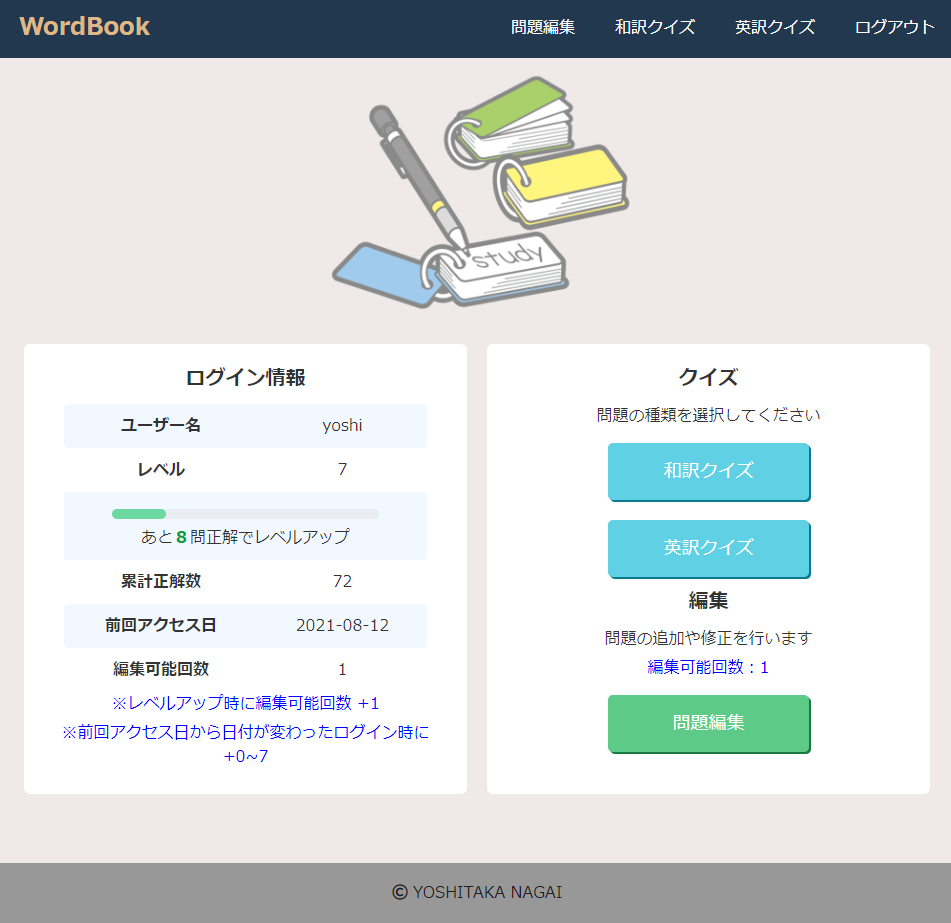
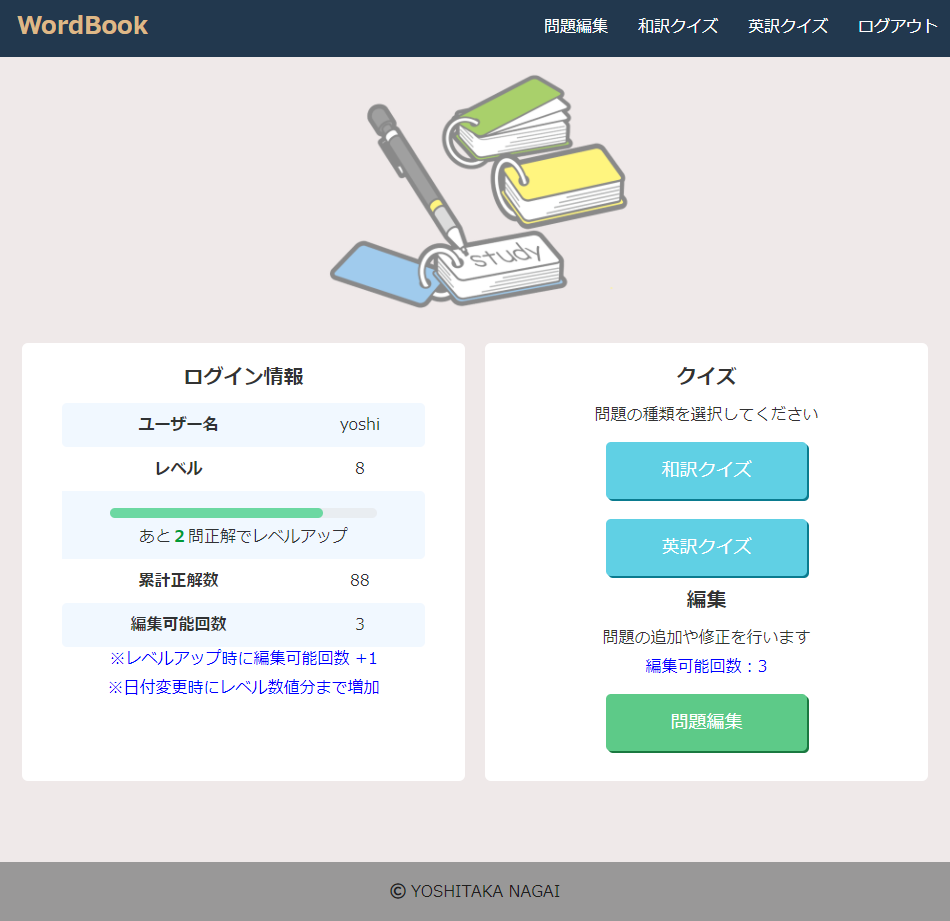
readme更新。色々修正。

diff --git a/scss/style.scss b/scss/style.scss
@@ -113,7 +113,7 @@ header {
   margin: 0 0 0 auto;
   a {
     line-height: 60px;
-    padding: 0 20px;
+    padding: 0 15px;
     color: white;
     display: block;
   }
@@ -153,6 +153,7 @@ header {
 
     i {
       margin-right: 5px;
+      color: white;
     }
   }
 }

diff --git a/css/style.css b/css/style.css
@@ -132,7 +132,7 @@ header {
 
 #pc-nav a {
   line-height: 60px;
-  padding: 0 20px;
+  padding: 0 15px;
   color: white;
   display: block;
 }
@@ -185,6 +185,7 @@ header {
 
 #sp-nav li i {
   margin-right: 5px;
+  color: white;
 }
 
 #hamburger {

diff --git a/dataRegist.php b/dataRegist.php
@@ -55,37 +55,62 @@ if (!empty($inputErrors)) {
     );
 
     if ($registType === REGIST_TYPE_CREATE) {
-      // 登録処理
-      $stmt = $pdo->prepare("insert into words (type, question, answer, editor) values (:type, :question, :answer, :editor)");
+      // 内容重複チェック
+      $stmt = $pdo->prepare("select count(*) from words where type = :type and question = :question and answer = :answer");
       $stmt->bindValue(":type", $inputType);
       $stmt->bindValue(":question", $inputQuestion);
       $stmt->bindValue(":answer", $inputAnswer);
-      $stmt->bindValue(":editor", $_SESSION["user"]["name"]);
       $stmt->execute();
-      $resultMessage = $registType . "処理が完了しました。";
-      // 編集可能回数を減らす
-      minusRegistCount($pdo);
-    } elseif ($registType === REGIST_TYPE_UPDATE) {
-      // 更新処理
-      $stmt = $pdo->prepare("update words set type = :type, question = :question, answer = :answer, editor = :editor where id = :id");
-      $stmt->bindValue(":type", $inputType);
-      $stmt->bindValue(":question", $inputQuestion);
-      $stmt->bindValue(":answer", $inputAnswer);
-      $stmt->bindValue(":editor", $_SESSION["user"]["name"]);
-      $stmt->bindValue(":id", (int)$inputId, PDO::PARAM_INT);
-      $stmt->execute();
-      $count = $stmt->rowCount();
-      if ($count <= 0) {
-        $resultMessage = "更新対象データが存在しません。";
+      $rowCount = $stmt->fetchColumn();
+      if ($rowCount > 0) {
+        $resultMessage = "同じ内容のデータが既に登録されている為、".$registType."処理は行われませんでした。";
       } else {
+        // 登録処理
+        $stmt = $pdo->prepare("insert into words (type, question, answer, editor) values (:type, :question, :answer, :editor)");
+        $stmt->bindValue(":type", $inputType);
+        $stmt->bindValue(":question", $inputQuestion);
+        $stmt->bindValue(":answer", $inputAnswer);
+        $stmt->bindValue(":editor", $_SESSION["user"]["name"]);
+        $stmt->execute();
         $resultMessage = $registType . "処理が完了しました。";
         // 編集可能回数を減らす
         minusRegistCount($pdo);
       }
+    } elseif ($registType === REGIST_TYPE_UPDATE) {
+      // 内容重複チェック
+      $stmt = $pdo->prepare("select count(*) from words where type = :type and question = :question and answer = :answer");
+      $stmt->bindValue(":type", $inputType);
+      $stmt->bindValue(":question", $inputQuestion);
+      $stmt->bindValue(":answer", $inputAnswer);
+      $stmt->execute();
+      $rowCount = $stmt->fetchColumn();
+      if ($rowCount > 0) {
+        $resultMessage = "同じ内容のデータが既に登録されている為、".$registType."処理は行われませんでした。";
+      } else {
+        // 更新処理
+        $stmt = $pdo->prepare("update words set type = :type, question = :question, answer = :answer, editor = :editor where id = :id");
+        $stmt->bindValue(":type", $inputType);
+        $stmt->bindValue(":question", $inputQuestion);
+        $stmt->bindValue(":answer", $inputAnswer);
+        $stmt->bindValue(":editor", $_SESSION["user"]["name"]);
+        $stmt->bindValue(":id", (int)$inputId, PDO::PARAM_INT);
+        $stmt->execute();
+        $count = $stmt->rowCount();
+        if ($count <= 0) {
+          $resultMessage = "更新対象データが存在しません。";
+        } else {
+          $resultMessage = $registType . "処理が完了しました。";
+          // 編集可能回数を減らす
+          minusRegistCount($pdo);
+        }
+      }
     } elseif ($registType === REGIST_TYPE_DELETE) {
       // 削除処理
-      $stmt = $pdo->prepare("delete from words where id = :id");
+      $stmt = $pdo->prepare("delete from words where id = :id and type = :type and question = :question and answer = :answer");
       $stmt->bindValue(":id", (int)$inputId, pdo::PARAM_INT);
+      $stmt->bindValue(":type", $inputType);
+      $stmt->bindValue(":question", $inputQuestion);
+      $stmt->bindValue(":answer", $inputAnswer);
       $stmt->execute();
       $count = $stmt->rowCount();
       if ($count <= 0) {

diff --git a/createUser.php b/createUser.php
@@ -24,6 +24,8 @@ $errors = [];
 if ($createUser === CREATE_USER) {
   if (empty($inputUserName)) {
     $errors[] = "ユーザー名を入力してください。";
+  } elseif (mb_strlen($inputUserName) > 10) {
+    $errors[] = "ユーザー名は10文字以内で入力してください。";
   } elseif (empty($inputPassword)) {
     $errors[] = "パスワードを入力してください。";
   } elseif (!preg_match("/^[a-zA-Z0-9]{4,}$/", $inputPassword)) {
@@ -92,8 +94,8 @@ if ($createUser === CREATE_USER) {
               <p class="message color-red"><?= $error ?></p>
             <?php endforeach ?>
           <?php endif ?>
-          <input type="text" name="inputUserName" id="inputUserName" placeholder="ユーザ名" autocomplete="off" value="<?= h($inputUserName) ?>">
-          <input type="password" name="inputPassword" id="inputPassword" maxlength="8" placeholder="パスワード(半角英数字4文字以上)" autocomplete="off">
+          <input type="text" name="inputUserName" id="inputUserName" placeholder="ユーザ名" autocomplete="off" value="<?= h($inputUserName) ?>" maxlength="10">
+          <input type="password" name="inputPassword" id="inputPassword" placeholder="パスワード(半角英数字4文字以上)" autocomplete="off">
           <input class="btn btn-green btn-normal" type="submit" value="登録">
           <p class="message"><a class="link" href="login.php">既に登録済みの方はこちらからログイン</a></p>
           <input type="hidden" name="createUser" value="<?= CREATE_USER ?>">

diff --git a/edit.php b/edit.php
@@ -146,7 +146,7 @@ $btnColor = ["" => "", REGIST_TYPE_CREATE => "btn-blue", REGIST_TYPE_UPDATE => "
             <table class="input-form">
               <tr>
                 <th>ID</th>
-                <td><input type="text" class="form-text" name="inputId" id="inputId" value="<?= h($inputId) ?>" autocomplete="off"></td>
+                <td><input type="text" class="form-text" name="inputId" id="inputId" value="<?= h($inputId) ?>" autocomplete="off" maxlength="4"></td>
               </tr>
               <tr>
                 <th>種類</th>
@@ -159,11 +159,11 @@ $btnColor = ["" => "", REGIST_TYPE_CREATE => "btn-blue", REGIST_TYPE_UPDATE => "
               </tr>
               <tr>
                 <th>問題</th>
-                <td><input type="text" class="form-text" name="inputQuestion" id="inputQuestion" value="<?= h($inputQuestion) ?>" autocomplete="off"></td>
+                <td><input type="text" class="form-text" name="inputQuestion" id="inputQuestion" value="<?= h($inputQuestion) ?>" autocomplete="off" maxlength="15"></td>
               </tr>
               <tr>
                 <th>答え</th>
-                <td><input type="text" class="form-text" name="inputAnswer" id="inputAnswer" value="<?= h($inputAnswer) ?>" autocomplete="off"></td>
+                <td><input type="text" class="form-text" name="inputAnswer" id="inputAnswer" value="<?= h($inputAnswer) ?>" autocomplete="off" maxlength="15"></td>
               </tr>
             </table>
             <?php if ($_SESSION["user"]["registCount"] <= 0) : ?>

diff --git a/validation.php b/validation.php
@@ -19,8 +19,13 @@ function validation($data, $registType)
   $errors = [];
 
   // IDは更新 or 削除処理時には必須
-  if (($registType === REGIST_TYPE_UPDATE || $registType === REGIST_TYPE_DELETE) && empty($data["inputId"])) {
-    $errors[] = "IDを入力してください";
+  if ($registType === REGIST_TYPE_UPDATE || $registType === REGIST_TYPE_DELETE) {
+    if(empty($data["inputId"])){
+      $errors[] = "IDを入力してください";
+    }
+    if(!preg_match("/^[0-9]+$/",$data["inputId"])){
+      $errors[] = "IDは数値を入力してください";
+    }
   }
 
   // 種類は必須
@@ -39,6 +44,9 @@ function validation($data, $registType)
   if (empty($data["inputQuestion"])) {
     $errors[] = "問題を入力してください";
   } else {
+    if(mb_strlen($data["inputQuestion"]) > 15){
+      $errors[] = "問題は15文字以内で入力してください";
+    }
     if ($data["inputType"] === "和訳" && !preg_match("/^[a-zA-Z]+$/", $data["inputQuestion"])) {
       $errors[] = "問題は英語で入力してください";
     }
@@ -53,6 +61,9 @@ function validation($data, $registType)
   if (empty($data["inputAnswer"])) {
     $errors[] = "答えを入力してください";
   } else {
+    if(mb_strlen($data["inputAnswer"]) > 15){
+      $errors[] = "答えは15文字以内で入力してください";
+    }
     if ($data["inputType"] === "英訳" && !preg_match("/^[a-zA-Z]+$/", $data["inputAnswer"])) {
       $errors[] = "答えは英語で入力してください";
     }

diff --git a/login.php b/login.php
@@ -44,7 +44,7 @@ if ($loginUser === LOGIN_USER) {
       $row = $stmt->fetch();
 
       // DBのデータと入力されたユーザー名、パスワードが一致の場合
-      if (password_verify($inputPassword, $row["password"])) {
+      if (!empty($row) && password_verify($inputPassword, $row["password"])) {
         // セッションへデータ保存
         $_SESSION["user"]["name"] = $inputUserName;
         $_SESSION["user"]["answerCount"] = $row["answer_count"];
@@ -90,7 +90,7 @@ if ($loginUser === LOGIN_USER) {
               <p class="message color-red"><?= $error ?></p>
             <?php endforeach ?>
           <?php endif ?>
-          <input type="text" name="inputUserName" id="inputUserName" placeholder="ユーザ名" autocomplete="off">
+          <input type="text" name="inputUserName" id="inputUserName" placeholder="ユーザ名" autocomplete="off" value="<?= h($inputUserName) ?>">
           <input type="password" name="inputPassword" id="inputPassword" maxlength="8" placeholder="パスワード" autocomplete="off">
           <input class="btn btn-green btn-normal" type="submit" value="ログイン">
           <p class="message"><a class="link" href="createUser.php">新規ユーザー登録はこちらから</a></p>

diff --git a/index.php b/index.php
@@ -47,16 +47,12 @@ if (isset($_SESSION["user"])) {
               <td><?= h($_SESSION["user"]["answerCount"]) ?></td>
             </tr>
             <tr>
-              <th>前回アクセス日</th>
-              <td><?= h($_SESSION["user"]["lastAccessDate"]) ?></td>
-            </tr>
-            <tr>
               <th>編集可能回数</th>
               <td><?= h($_SESSION["user"]["registCount"]) ?></td>
             </tr>
           </table>
           <p class="message color-blue">※レベルアップ時に編集可能回数 +1</p>
-          <p class="message color-blue">※前回アクセス日から日付が変わったログイン時に+0~<?= h(floor($_SESSION["user"]["answerCount"] / USER_LEVEL_DENOMINATOR)) ?></p>
+          <p class="message color-blue">※日付変更時にレベル数値分まで増加</p>
         </div>
       <?php else : ?>
         <div class="menu">

diff --git a/README.md b/README.md
@@ -41,7 +41,7 @@ https://mikanbako.sakura.ne.jp/Wordbook/
 ## トップ画面
 クイズ画面へ遷移できます。非ログイン時はログイン画面へ遷移できます。ログイン時はユーザー情報の表示、編集画面へ遷移できます。  
 ![top1](https://user-images.githubusercontent.com/18690548/129180736-ae92c53c-285f-48d6-aacc-4a29f93d33af.PNG)
-![top2](https://user-images.githubusercontent.com/18690548/129208072-42d91229-1d57-4c32-bcdc-206717f32df4.PNG)
+![top2](https://user-images.githubusercontent.com/18690548/129361513-12acc99b-1d37-4204-a7f6-a413eabe72e6.PNG)
 
 ## ログイン画面
 ログインまたは新規ユーザー登録してログインできます。
@@ -74,6 +74,7 @@ https://mikanbako.sakura.ne.jp/Wordbook/
 [テーブル定義書（Googleスプレッドシート）](https://docs.google.com/spreadsheets/d/1kAnCUVVjwLSICFZMSjreRandVdp8pJWhO918HXTGdZw/edit?usp=sharing)
 
 # テスト
+[機能単体テスト（Googleスプレッドシート）](https://docs.google.com/spreadsheets/d/1NxQPDQ28mIoBi_U8K8_BsIVLgF6n-kF7VXJyqp0OEfI/edit?usp=sharing)
 
 # リンク
 * [Github](https://github.com/yoshitaka7144)
